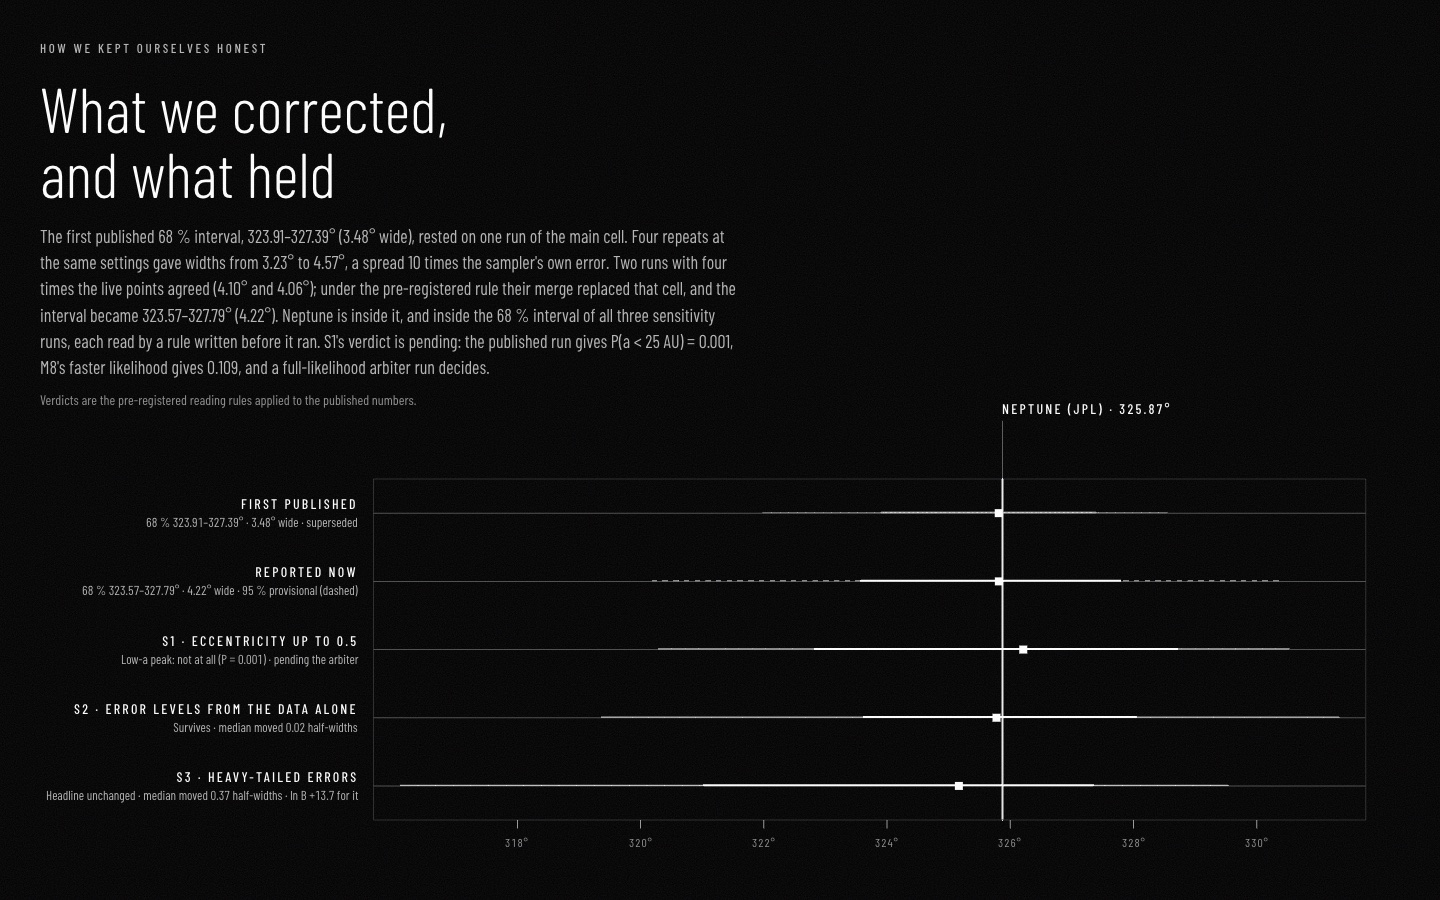
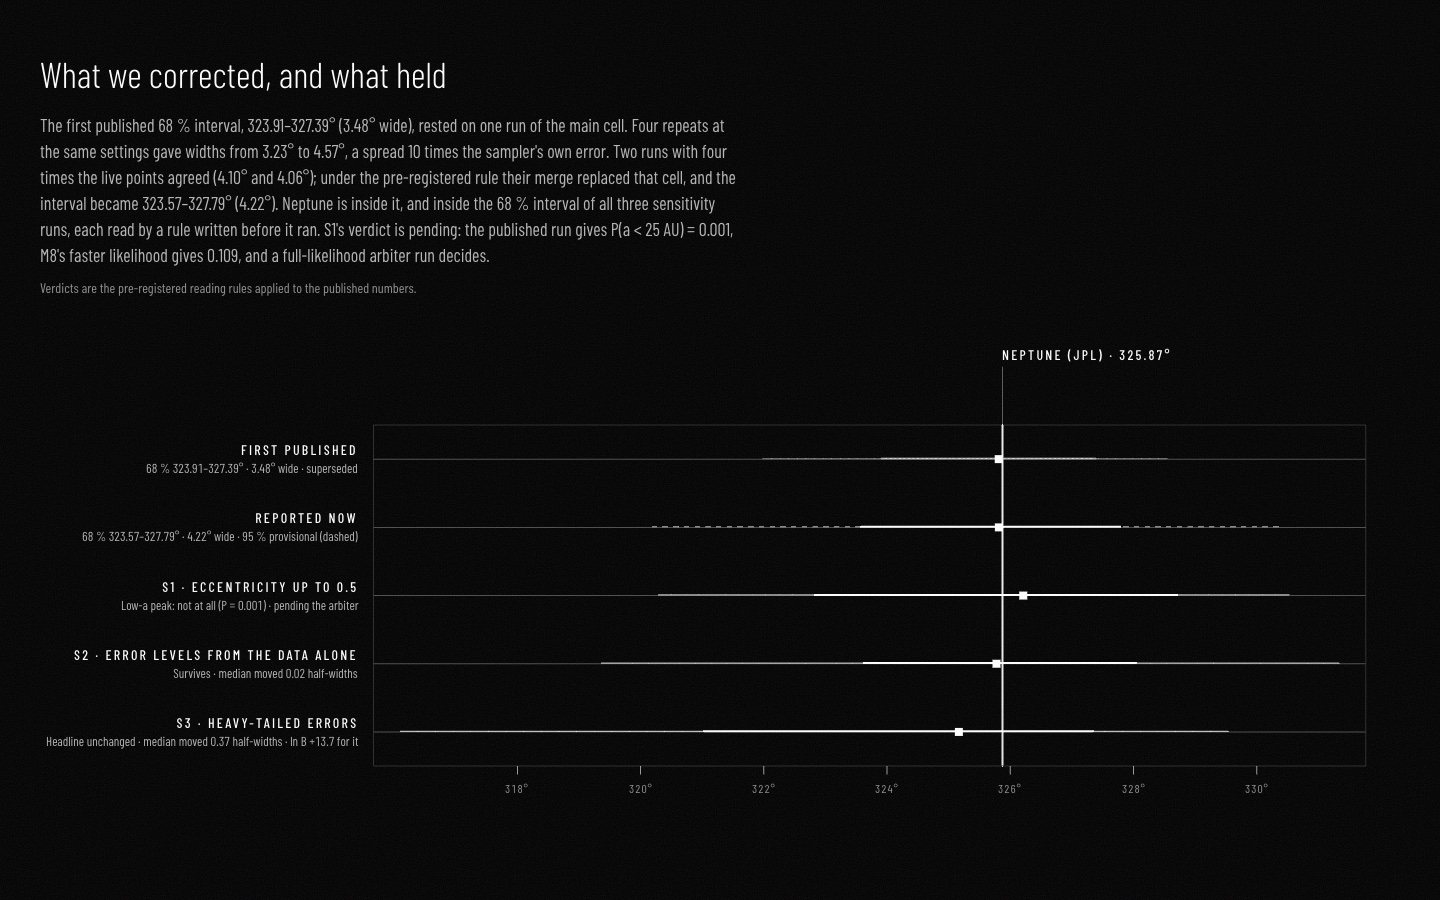
M7 panel 4 review: no eyebrow on 4a/4b; one h2 (How we kept ourselves honest) with an h3 per section (the timeline's computed claim; What we corrected, and what held). 4a body states that the logs cannot rule out one of the M6c run's result files being opened by hand during the run. Phone timeline a

diff --git a/site/js/scene-timeline.js b/site/js/scene-timeline.js
@@ -52,9 +52,9 @@ export function mountTimeline(root, d) {
     lanes, xMin, xMax,
     walls: [{ x: 0 }],
     ticks: TICKS.map(([s, text]) => ({ x: X(s), text, minor: Math.abs(s) > 0 && Math.abs(s) < 3600 })),
-    phoneZ: 1.85,
+    phoneZ: 1.65,
     half: (phone, a, span) => (phone ? (span / 2 + 0.6) / a : 11),
-    offset: (phone) => (phone ? [0, -0.25] : [-0.21, -0.245]),
+    offset: (phone) => (phone ? [0, -0.3] : [-0.21, -0.245]),
     anchors: ({ V, Z, phone, zBack, WALL_H }) => {
       const z = Z(head);
       const a = {
@@ -106,7 +106,7 @@ export function fillTimeline(root, d) {
   const beforeResult = F.filter((f) => f.L && f.dFinish !== null).every((f) => f.pre.every((p) =>
     p.dPush < f.dFinish && (f.dSummary === null || p.dPush < f.dSummary)));
 
-  set("h2", beforeResult ? "Every plan was public before its result" : "When each plan went public");
+  set("h3", beforeResult ? "Every plan was public before its result" : "When each plan went public");
   const hp = h.pre[0];
   const lead = Math.min(...main.map((p) => -p.dPush)), most = Math.max(...main.map((p) => -p.dPush));
   let body =
@@ -115,7 +115,8 @@ export function fillTimeline(root, d) {
     `was first pushed at ${clock(hp.pushed.time)}, ${duration(hp.dPush)} after launch: public ` +
     `${duration(h.dFinish - hp.dPush)} before the run finished (${clock(h.e.finished.time)}) and ` +
     `${duration(h.dSummary - hp.dPush)} before the first summary of its result ` +
-    `(${clock(h.e.first_summary.time)}).`;
+    `(${clock(h.e.first_summary.time)}). The logs cannot rule out that one of its result files ` +
+    `was opened by hand during the run.`;
   if (allMainBefore) {
     body += ` Every later plan was pushed before its runs launched, by ${duration(lead)} to ` +
       `${duration(most)}.`;

diff --git a/site/js/scene-checks.js b/site/js/scene-checks.js
@@ -50,7 +50,7 @@ export function mountChecks(root, d) {
     lanes, xMin, xMax, ticks, phoneZ: 1.5,
     walls: [{ x: 0, width: 2 }],
     half: (phone, a, span) => (phone ? (span / 2 + 0.6) / a : 8.4),
-    offset: (phone) => (phone ? [0, -0.27] : [-0.104, -0.23]),
+    offset: (phone) => (phone ? [0, -0.19] : [-0.104, -0.17]),
     anchors: ({ V, zBack, WALL_H }) => ({
       jpl: { point: V(0, WALL_H, zBack), offset: [0, -12], marker: "none", leader: false },
     }),
@@ -96,7 +96,7 @@ export function fillChecks(root, d) {
   const inAll = Object.keys(NAMES).every((k) => d.fits[k].galle_lon_ecl_of_date_deg.vs.jpl.in_68)
     && d.reported.vs.jpl.in_68;
   const ratio = rp.r1Spread / rp.r1RunError;
-  set("h2", "What we corrected, and what held");
+  set("h3", "What we corrected, and what held");
   let body =
     `The first published 68 % interval, ${range(d.first.lo68, d.first.hi68, 2)}° ` +
     `(${fmt(d.first.width68, 2)}° wide), rested on one run of the main cell. Four repeats at the ` +

diff --git a/site/index.html b/site/index.html
@@ -113,8 +113,8 @@
       <canvas aria-hidden="true"></canvas>
       <svg class="leaders" aria-hidden="true"></svg>
       <div class="copy wide">
-        <p class="chapter">How we kept ourselves honest</p>
-        <h2 id="timeline-title">When each plan went public</h2>
+        <h2 id="timeline-title">How we kept ourselves honest</h2>
+        <h3>When each plan went public</h3>
         <p class="body">Loading the results…</p>
         <p class="note"></p>
       </div>
@@ -142,8 +142,7 @@
       <canvas aria-hidden="true"></canvas>
       <svg class="leaders" aria-hidden="true"></svg>
       <div class="copy wide">
-        <p class="chapter">How we kept ourselves honest</p>
-        <h2 id="checks-title">What we corrected, and what held</h2>
+        <h3 id="checks-title">What we corrected, and what held</h3>
         <p class="body">Loading the results…</p>
         <p class="note"></p>
       </div>

diff --git a/site/css/site.css b/site/css/site.css
@@ -76,6 +76,11 @@ h1, h2 {
   font-weight: 300; font-size: clamp(40px, 4.4vw, 64px); line-height: 1.02;
   margin-top: 20px; color: #fff; text-wrap: balance;
 }
+h3 {
+  font-weight: 300; font-size: clamp(26px, 2.5vw, 36px); line-height: 1.1;
+  margin-top: 14px; color: #fff; text-wrap: balance;
+}
+h2 + h3 { margin-top: 12px; }
 .body {
   font-size: 18px; line-height: 1.45; color: var(--ink-2); max-width: 31rem; margin-top: 18px;
 }

diff --git a/docs/notes/M7.md b/docs/notes/M7.md
@@ -10,7 +10,8 @@ Started 2026-11-09, alongside M8b, in `site/` and `docs/` only.
 3. **The lucky window,** 1800–1870.
 4. **Honesty.** The pre-registration timeline, the repeatability correction and the
    sensitivity runs. Built as two sections (4a, the timeline; 4b, the correction and the
-   checks), because they are two ideas.
+   checks), because they are two ideas. One h2 ("How we kept ourselves honest") opens 4a; each
+   section has its own h3. No eyebrow on either (review of e5407ee, 2026-11-09).
 5. **The dataset,** with its DOIs and citation.
 
 This order replaces the spec's five-panel list (PHASE1_SPEC, M7) and DESIGN.md's four scenes as
@@ -348,10 +349,11 @@ read.
   - Hollow square: plan committed. Solid square: first pushed (public). Bar: the run, launch to
     finish, dashed while running. Diamond: first summary. These are labelled directly on the
     headline lane ("Committed", "First pushed", "Finished", "First summary"), not in a legend.
-- **Copy:** the headline is computed. "Every plan was public before its result" is shown only
+- **Copy:** the h3 is computed. "Every plan was public before its result" is shown only
   if every finished run set's plans were pushed before its finish and its first summary;
   otherwise "When each plan went public". The body's numbers, and the supplement sentence,
-  are computed from the JSON.
+  are computed from the JSON. The body says, in one sentence, that the logs cannot rule out
+  one of the M6c run's result files being opened by hand during the run.
 - **Hover:** each lane gives every time, the gaps and the log file.
 - **Phone:** lanes stretched apart, only the ±1 h and ±10 h ticks, one callout (first push).
 
@@ -395,9 +397,9 @@ the local server and the CDN both answered.
 
 ### Self-audit, panels 4a, 4b and 5 (UI rule)
 
-- **ALL CAPS:** lane titles, annotation titles, eyebrows, "Cite" and the DOI keys only.
-- **Eyebrow:** "How we kept ourselves honest" on both 4a and 4b, because they are one chapter
-  in two sections; "The dataset" on 5.
+- **ALL CAPS:** lane titles, annotation titles, the panel 5 eyebrow, "Cite" and the DOI keys only.
+- **Eyebrow:** only "The dataset" on 5. Panels 4a and 4b have none: one h2 for the chapter,
+  one h3 per section.
 - **Several opacities of one white:** floor 0.16, rails 0.3 (0.85 on hover), superseded 0.35–0.45,
   95 % bars 0.7, main bars 1. Same hierarchy as panels 1–3.
 - **Underlined links and text buttons** (panel 5): the DOIs, the record and "Copy" do a real
